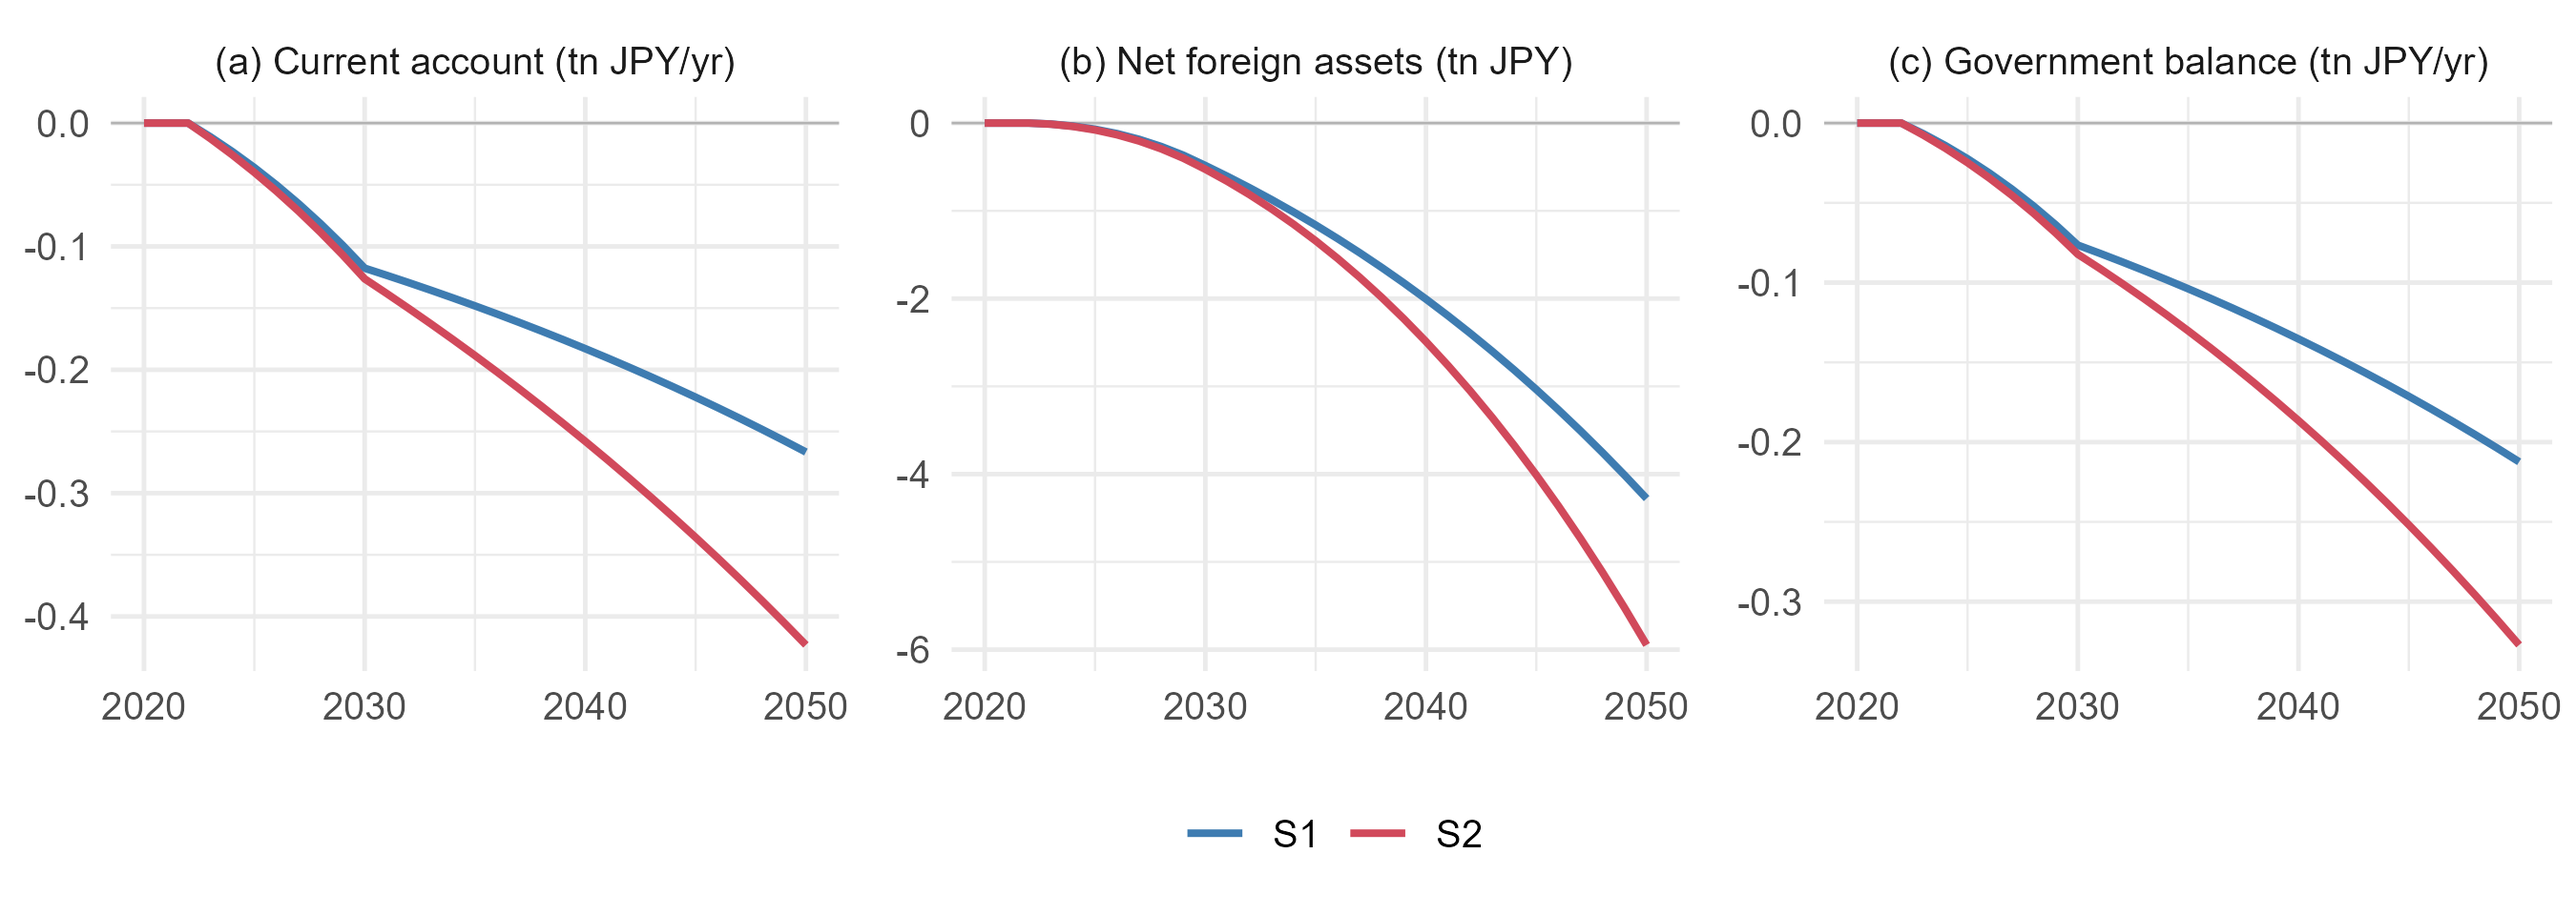
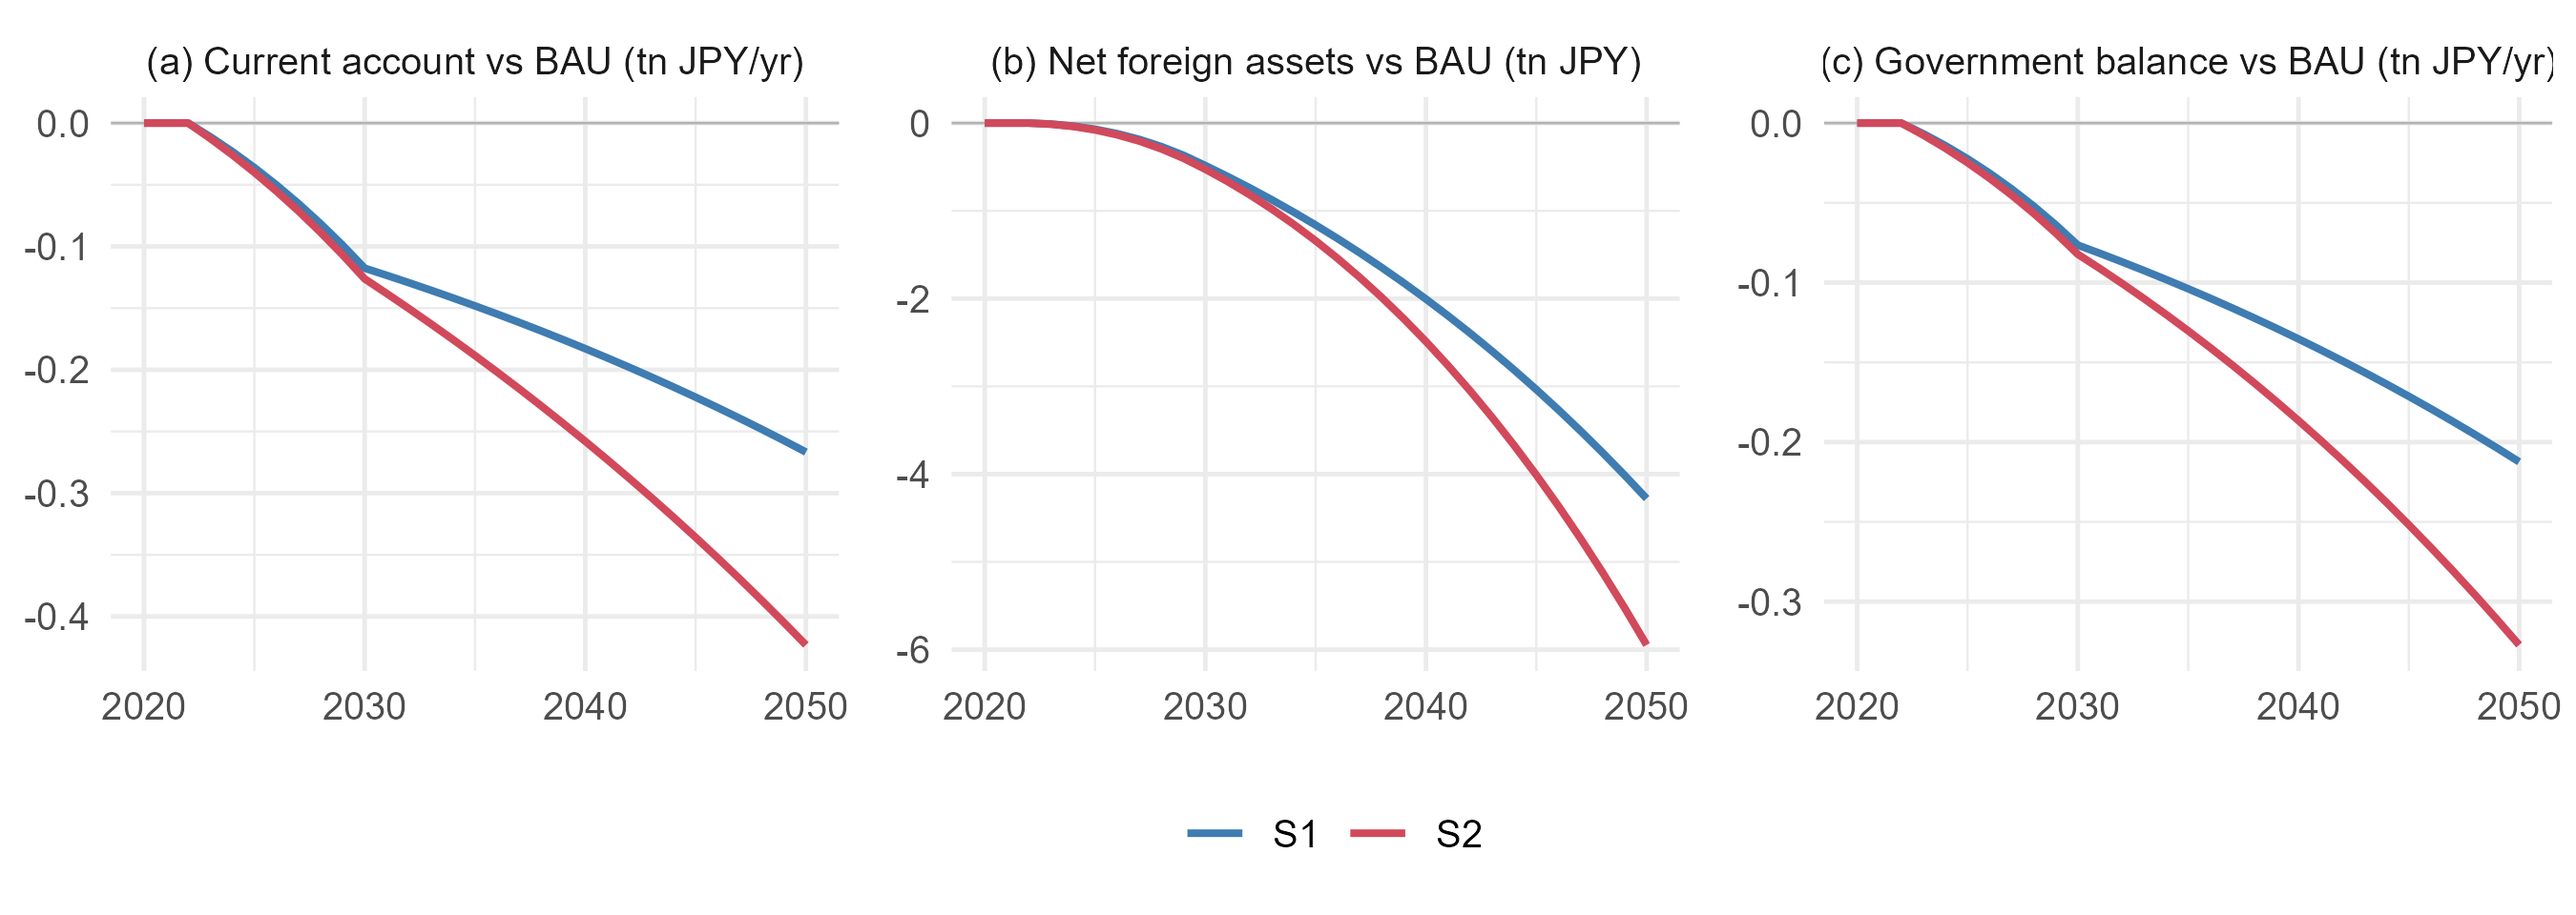
v1.0.2: run outputs and figures from the final thesis run
Claude-Session: https://claude.ai/code/session_01TMthabQ5QSNL1mzV8fJcd7

Changed region(s): [[0.7156, 0.0312, 0.9956, 0.0938], [0.3733, 0.0312, 0.6222, 0.0938], [0.0622, 0.0312, 0.3111, 0.0938]]

diff --git a/README.md b/README.md
@@ -53,6 +53,9 @@ and emissions do not feed back into production or the current account.
 | `data/calibration_ledger.csv` | Every calibrated input with its value, unit, source and provenance tag |
 | `MODEL_NOTES.md` | Design rationale referenced from the code as `[N01]`–`[N25]` |
 | `results/run_log.txt` | Console output of a full run of `sfc_midori.R` |
+| `results/summary_2050.csv` | Every number quoted in the thesis, with the comparison it refers to (S1 vs BAU, S2 vs BAU, S2 − S1) |
+| `results/ghg_uplift_bounds.csv` | GHG balance at the bounds of the paddy methane uplift |
+| `results/ghg_countermeasures.csv` | GHG balance under the direct payment scheme's methane countermeasures |
 | `figures/` | Figures written by the script |
 | `LICENSE`, `LICENSE-DATA.md` | Licences (see below) |
 | `CITATION.cff`, `.zenodo.json` | Citation metadata |
